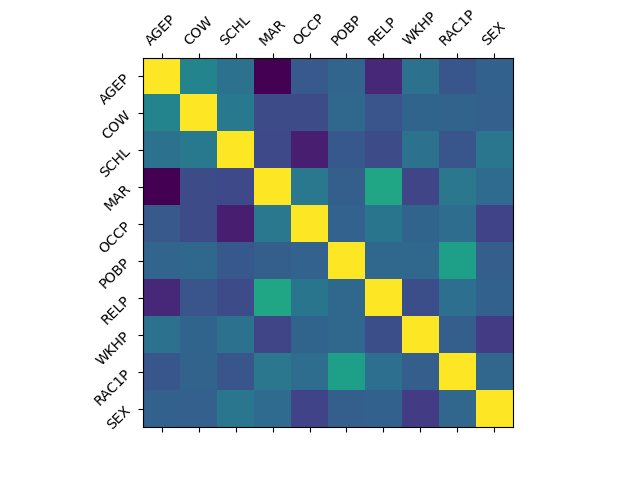
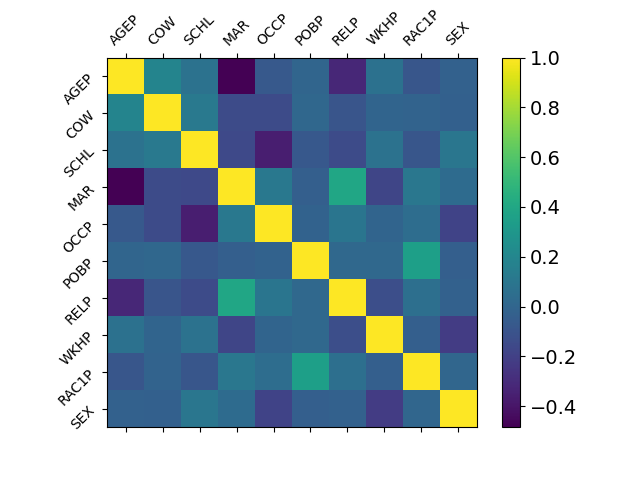
color bar feat corr

diff --git a/feature_imp.py b/feature_imp.py
@@ -16,11 +16,17 @@ def feature_correlation(X_train_with_p, X_dev_with_p, X_test_with_p):
     feature_names = ["AGEP", "COW", "SCHL", "MAR", "OCCP", "POBP", "RELP", "WKHP", "RAC1P", "SEX"]
 
     fig, ax = plt.subplots()
-    ax.matshow(correlation)
+    mappable = ax.matshow(correlation)
     # ax.set_xticklabels(feature_names)
     # ax.set_yticklabels(feature_names)
+
+    # Add a color bar (legend) with vertical orientation
+    cb = plt.colorbar(mappable)
+    cb.ax.tick_params(labelsize=14)
+
     plt.xticks(range(10), feature_names, rotation=45)
     plt.yticks(range(10), feature_names, rotation=45)
+    
     plt.show()
 
     return correlation
